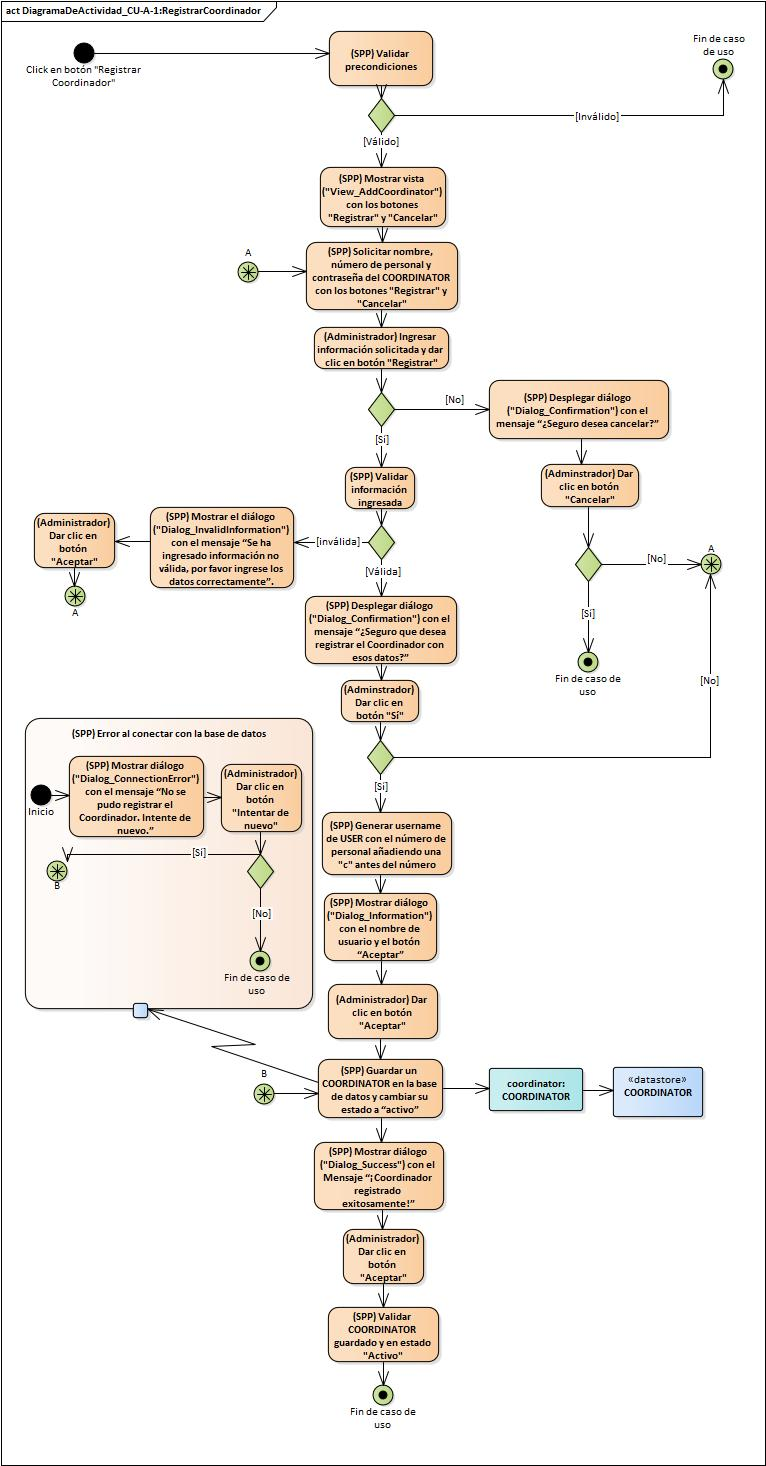
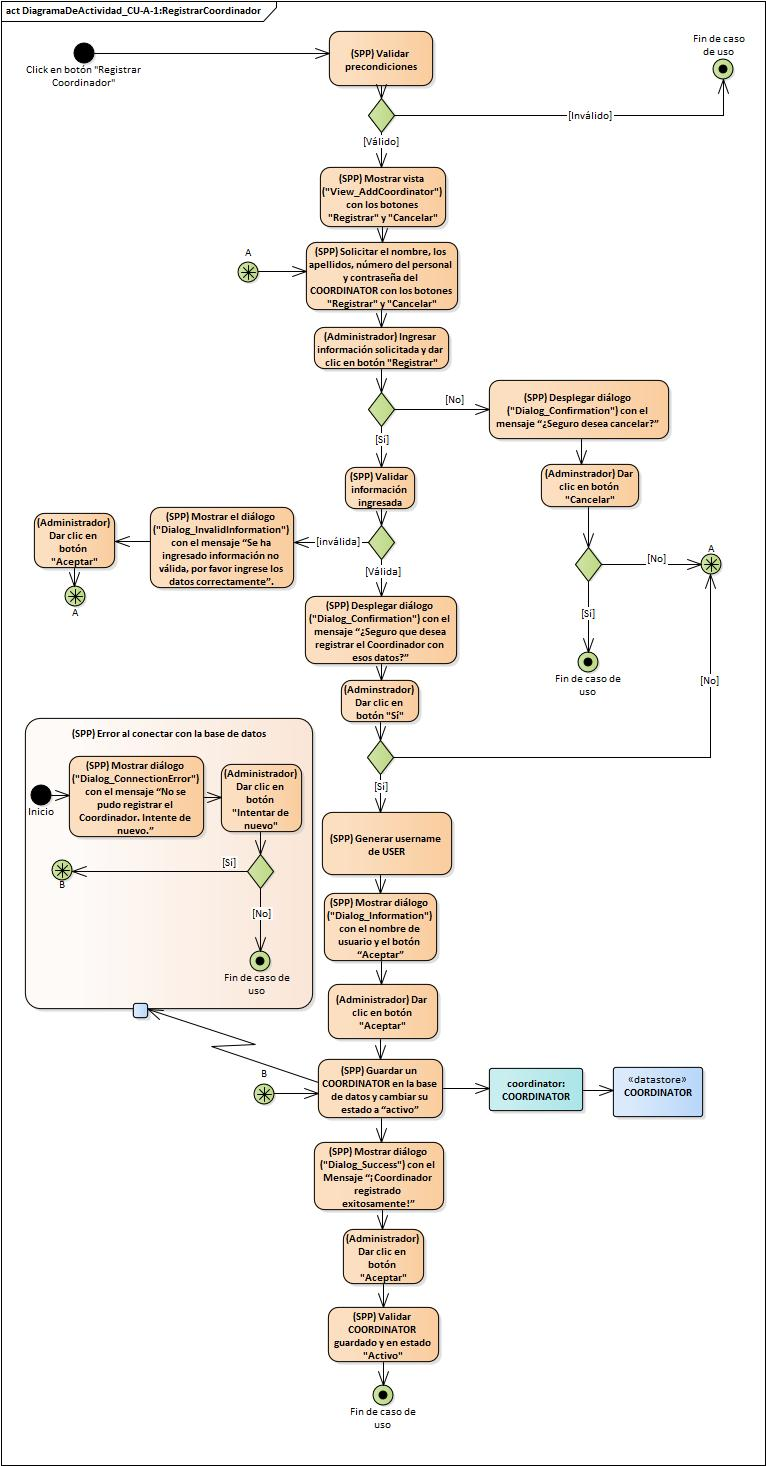
updated files

diff --git a/assets/ucdescriptions/coordinator/CU-C-6.md b/assets/ucdescriptions/coordinator/CU-C-6.md
@@ -28,13 +28,13 @@ El *Coordinador* da clic en el botón “Registrar Practicante” en la vista [`
 No tiene precondiciones.
 
 **Flujo Normal:**  
-  1. <a id="FN1"><i></i></a>El *SPP* despliega la vista de registro [`View_AddPractitioner`][VAPT] y solicita la matricula, nombre, apellido paterno, apellido materno, id del professor personal que se quiera asignar y turno del **`PRACTITIONER`**. También se muestran los botones “Registrar” y “Cancelar” en la parte inferior de la ventana.
+  1. <a id="FN1"><i></i></a>El *SPP* despliega la vista de registro [`View_AddPractitioner`][VAPT] y solicita la matricula, nombre, apellidos, y turno del **`PRACTITIONER`**. También se muestran los botones “Registrar” y “Cancelar” en la parte inferior de la ventana.
   2. <a id="FN2"><i></i></a>El *Coordinador* ingresa la información solicitada y da clic en el botón “Registrar”. (Ver <a href="#FA1">FA 1</a>) (Ver <a href="#FA3">FA 3</a>).
   3. El *SPP* muestra el diálogo [`Dialog_Confirmation`][DLCO] para validar que los datos introducidos sean los correctos, el diálogo muestra el mensaje “¿Seguro que desea registrar el Practicante con esos datos?” y los botones “Sí” y “Cancelar”.
   4. El *Coordinador* da clic en el botón “Sí”. (Ver <a href="#FA2">FA 2</a>)
   5. EL *SPP* genera el username del **`USER`** con la matrícula y muestra el diálogo [`Dialog_Information`][DLI] con el nombre de usuario y el botón “Aceptar”.
   6. El *Coordinador* da clic en el botón “Aceptar”.
-  7. <a id="FN7"><i></i></a>El *SPP* guarda un **`PRACTITIONER`** en la base de datos, le asigna una contraseña generada aleatoriamente y muestra el diálogo [`Dialog_Success`][DLSU] con el botón “Aceptar”. (Ver <a href="#EX1">EX 1</a>)
+  7. <a id="FN7"><i></i></a>El *SPP* guarda un **`PRACTITIONER`** en la base de datos, cambia su estado a "Activo", le asigna una contraseña generada aleatoriamente y muestra el diálogo [`Dialog_Success`][DLSU] con el botón “Aceptar”. (Ver <a href="#EX1">EX 1</a>)
   8. El *Coordinador* da clic en el botón “Aceptar”.
   9. Fin del caso de uso.
 
@@ -58,7 +58,7 @@ No tiene precondiciones.
       2. Si el *Coordinador* da clic en el botón “Cancelar registro” termina el caso de uso, si selecciona la opción “Intentar de nuevo” el *SPP* regresa al <a href="#FN7">FN-7</a>.
 
 **Postcondiciones:**  
-Post-1. El *SPP* guardó un **`PRACTITIONER`** en el sistema y la base de datos.
+Post-1. El *SPP* guardó un **`PRACTITIONER`** en la base de datos y se cambió su estado a “activo”.
 
 **Incluye (Relación Include):**  
 No incluye.

diff --git a/assets/ucdescriptions/administrator/CU-A-1.md b/assets/ucdescriptions/administrator/CU-A-1.md
@@ -29,11 +29,11 @@ Pre-1. Si ya existen otros **`USER`** **`COORDINATOR`** registrados anteriorment
 
 **Flujo Normal:**  
 
-  1. <a id="FN1"><i></i></a>El *SPP* muestra la vista de registro [`View_AddCoordinator`][VACR] en donde se solicita el nombre, el número de personal, y la contraseña del **`COORDINATOR`**. También se muestran las opciones “Registrar” y “Cancelar” en la parte inferior de la ventana.
-  2. <a id="FN2"><i></i></a>El *Administrador* ingresa el nombre del Coordinador, el número de personal, la contraseña y da clic en el botón “Registrar”. (Ver <a href="#FA1">FA 1</a>) (Ver <a href="#FA3">FA 3</a>)
+  1. <a id="FN1"><i></i></a>El *SPP* muestra la vista de registro [`View_AddCoordinator`][VACR] en donde se solicita el nombre, los apellidos, número del personal y contraseña del **`COORDINATOR`**. También se muestran las opciones “Registrar” y “Cancelar” en la parte inferior de la ventana.
+  2. <a id="FN2"><i></i></a>El *Administrador* ingresa el nombre del Coordinador, los apellidos, el número de personal, la contraseña y da clic en el botón “Registrar”. (Ver <a href="#FA1">FA 1</a>) (Ver <a href="#FA3">FA 3</a>)
   3. El *SPP* despliega el diálogo [`Dialog_Confirmation`][DLCO] para validar que los datos introducidos sean los correctos, el diálogo muestra el mensaje “¿Seguro que desea registrar el Coordinador con esos datos?” y los botones “Sí” y “Cancelar”.
   4. El *Administrador* da clic en el botón “Sí”. (Ver <a href="#FA2">FA 2</a>)
-  5. EL *SPP* genera el username del **`USER`** con el número de personal añadiendo una “c” antes del número y muestra el diálogo [`Dialog_Information`][DLI] con el nombre de usuario y el botón “Aceptar”.
+  5. EL *SPP* genera el username del **`USER`** y muestra el diálogo [`Dialog_Information`][DLI] con el nombre de usuario y el botón “Aceptar”.
   6. El *Administrador* da clic en el botón “Aceptar”.
   7. <a id="FN7"><i></i></a>El *SPP* guarda un **`COORDINATOR`** en la base de datos, cambia su estado a “activo” y muestra el diálogo [`Dialog_Success`][DLSU] con el Mensaje “¡Coordinador registrado exitosamente!” y el botón “Aceptar”. (Ver <a href="#EX1">EX 1</a>)
   8. El *Administrador* da clic en el botón “Aceptar”.

diff --git a/assets/ucdescriptions/administrator/CU-A-2.md b/assets/ucdescriptions/administrator/CU-A-2.md
@@ -28,11 +28,11 @@ El *Administrador* da clic en el botón “Registrar profesor” en la vista [`V
 Pre-1. Si ya existen **`PROFESSOR`** registrados, a lo más uno debe de estar en el estado “Activo”.
 
 **Flujo Normal:**  
-  1. <a id="FN1"><i></i></a>El *SPP* despliega la vista de registro [`View_AddProfessor`][VAPR] donde solicita el nombre, apellido paterno, apellido materno, número de personal, turno, contraseña del **`PROFESSOR`** y muestra los botones “Registrar” y “Cancelar”.
-  2. <a id="FN2"><i></i></a>El *Administrador* ingresa el nombre, apellido paterno, apellido materno, número de personal, turno, contraseña del **`PROFESOR`** y selecciona el botón “Registrar”. (Ver <a href="#FA1">FA 1</a>) (Ver <a href="#FA3">FA 3</a>).
+  1. <a id="FN1"><i></i></a>El *SPP* despliega la vista de registro [`View_AddProfessor`][VAPR] donde solicita el nombre, apellidos, número de personal, contraseña del **`PROFESSOR`** y muestra los botones “Registrar” y “Cancelar”.
+  2. <a id="FN2"><i></i></a>El *Administrador* ingresa el nombre, apellidos, número de personal, contraseña del **`PROFESSOR`** y selecciona el botón “Registrar”. (Ver <a href="#FA1">FA 1</a>) (Ver <a href="#FA3">FA 3</a>).
   3. El *SPP* muestra el diálogo [`Dialog_Confirmation`][DLCO] para validar que los datos introducidos sean los correctos, el diálogo muestra el mensaje “¿Seguro que desea registrar el Profesor con esos datos?” con los botones “Sí” y “Cancelar”.
   4. El *Administrador* da clic en el botón “Sí”. (Ver <a href="#FA2">FA 2</a>)
-  5. EL *SPP* genera el username del **`USER`** con el número de personal añadiendo una “p” antes del número y muestra el diálogo [`Dialog_Information`][DLI] con el nombre de usuario y el botón “Aceptar”.
+  5. EL *SPP* genera el username del **`USER`** y muestra el diálogo [`Dialog_Information`][DLI] con el nombre de usuario y el botón “Aceptar”.
   6. El *Administrador* da clic en el botón “Aceptar”.
   7. <a id="FN7"><i></i></a>El *SPP* guarda un **`PROFESSOR`** en la base de datos, cambia su estado a “activo” y muestra el diálogo [`Dialog_Success`][DLSU] con el botón “Aceptar”. (Ver <a href="#EX1">EX 1</a>)
   8. El *Administrador* da clic en el botón “Aceptar”.

diff --git a/assets/ucdescriptions/coordinator/CU-C-4.md b/assets/ucdescriptions/coordinator/CU-C-4.md
@@ -32,7 +32,7 @@ Pre-1. PRE-1. Debe existir al menos un **`PRACTITIONER`** registrado.
   2. El *Coordinador* selecciona el Practicante deseado y da clic en “Eliminar”. (Ver <a href="#FA1">FA 1</a>).
   3. El *SPP* muestra el diálogo [`Dialog_Confirmation`][DLCO] para validar con el mensaje “¿Seguro desea eliminar el Practicante seleccionado?” y los botones “Sí” y “Cancelar”.
   4. El *Coordinador* da clic en el botón “Sí”. (Ver <a href="#FA2">FA 2</a>).
-  5. <a id="FN5"><i></i></a>El *SPP* elimina el **`PRACTITIONER`** del sistema y de la base de datos y muestra el diálogo [`Dialog_Success`][DLSU] con el mensaje “Se ha eliminado el practicante exitosamente” y el botón “Aceptar”. (Ver <a href="#EX2">EX 2</a>)
+  5. <a id="FN5"><i></i></a>El *SPP* cambia el estado del **`PRACTITIONER`** a "No activo" y muestra el diálogo [`Dialog_Success`][DLSU] con el mensaje “Se ha eliminado el practicante exitosamente” y el botón “Aceptar”. (Ver <a href="#EX2">EX 2</a>)
   6. El *Coordinador* da clic en el botón “Aceptar”.
   7. Termina caso de uso
 
@@ -55,7 +55,7 @@ Pre-1. PRE-1. Debe existir al menos un **`PRACTITIONER`** registrado.
       2. Si el *Coordinador* da clic en el botón Cancelar termina el caso de uso, sino, regresa al <a href="#FN5">FN-5</a>. 
 
 **Postcondiciones:**  
-Post-1. Se eliminó un **`PRACTITIONER`** del *SPP* y de la base de datos.
+Post-1. El SPP cambió un **`PRACTITIONER`** a estado “no activo”.
 
 **Incluye (Relación Include):**  
 No incluye.
